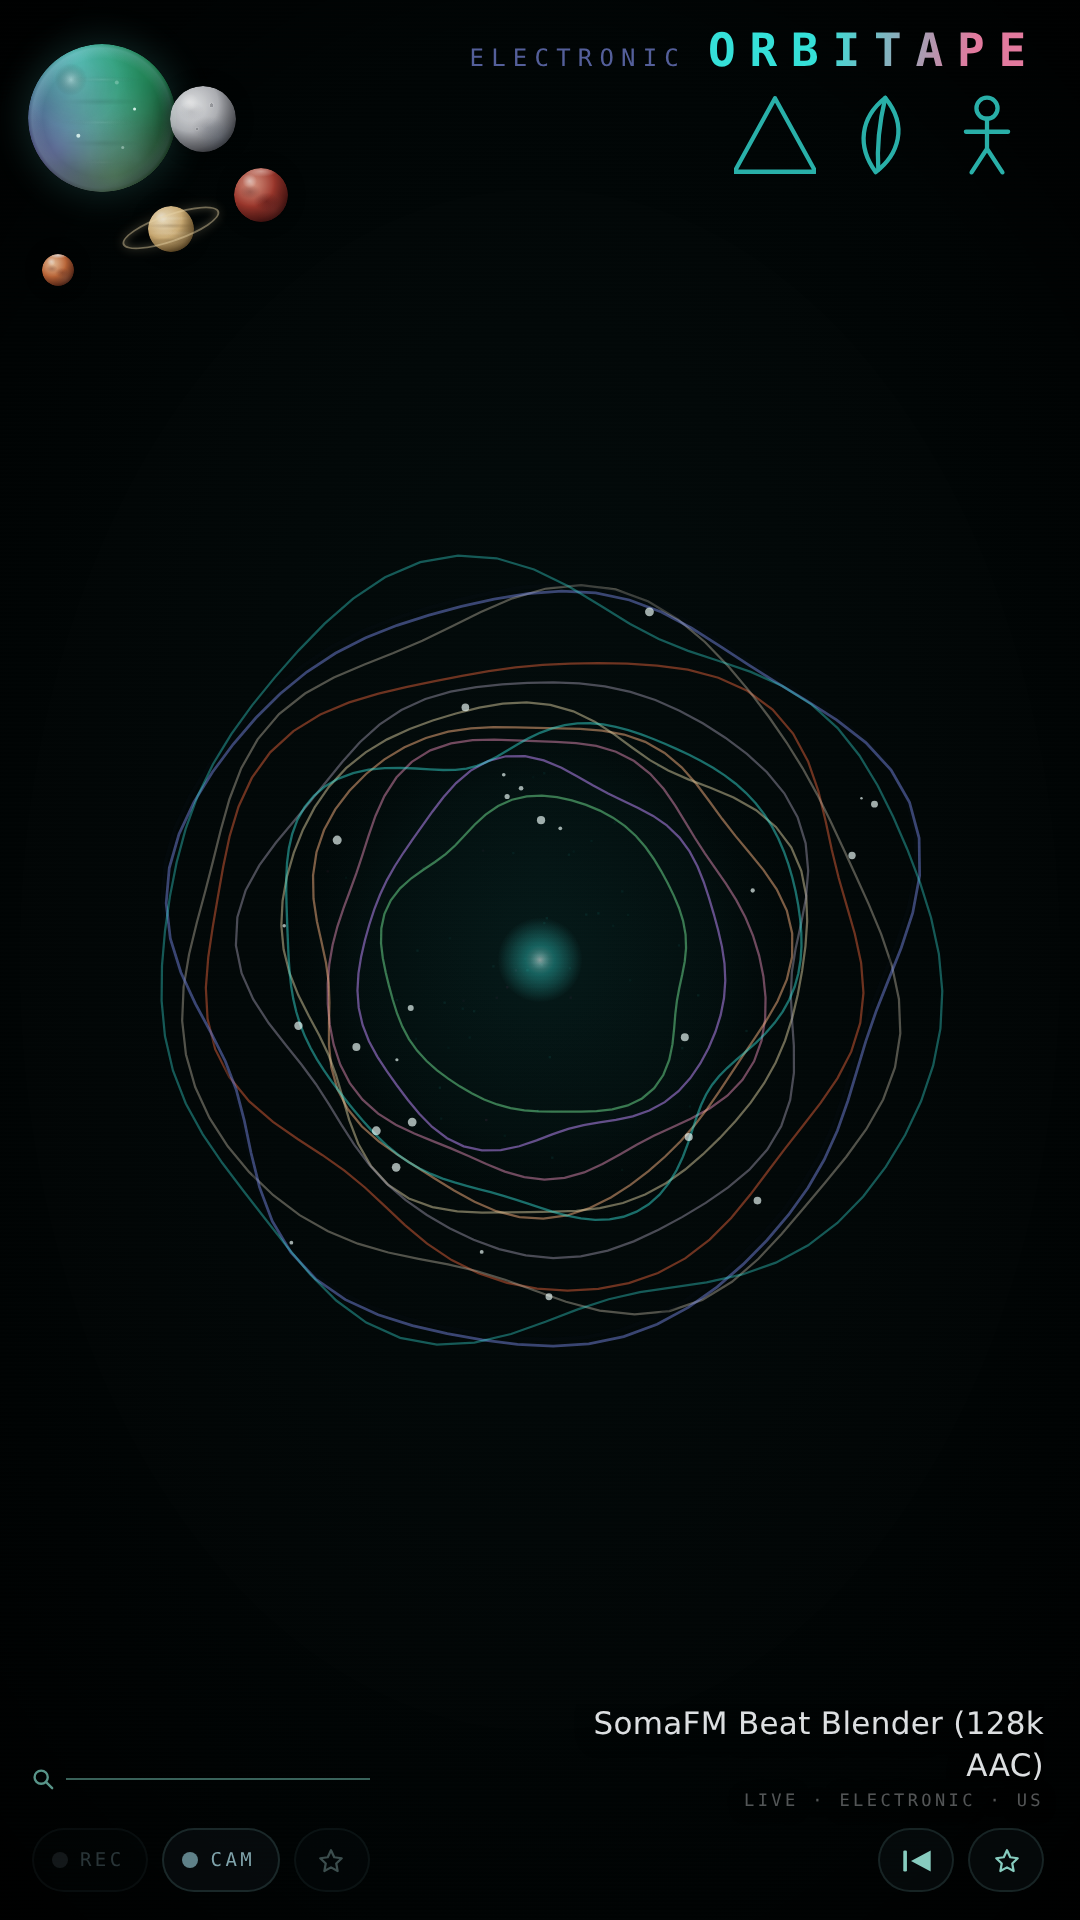
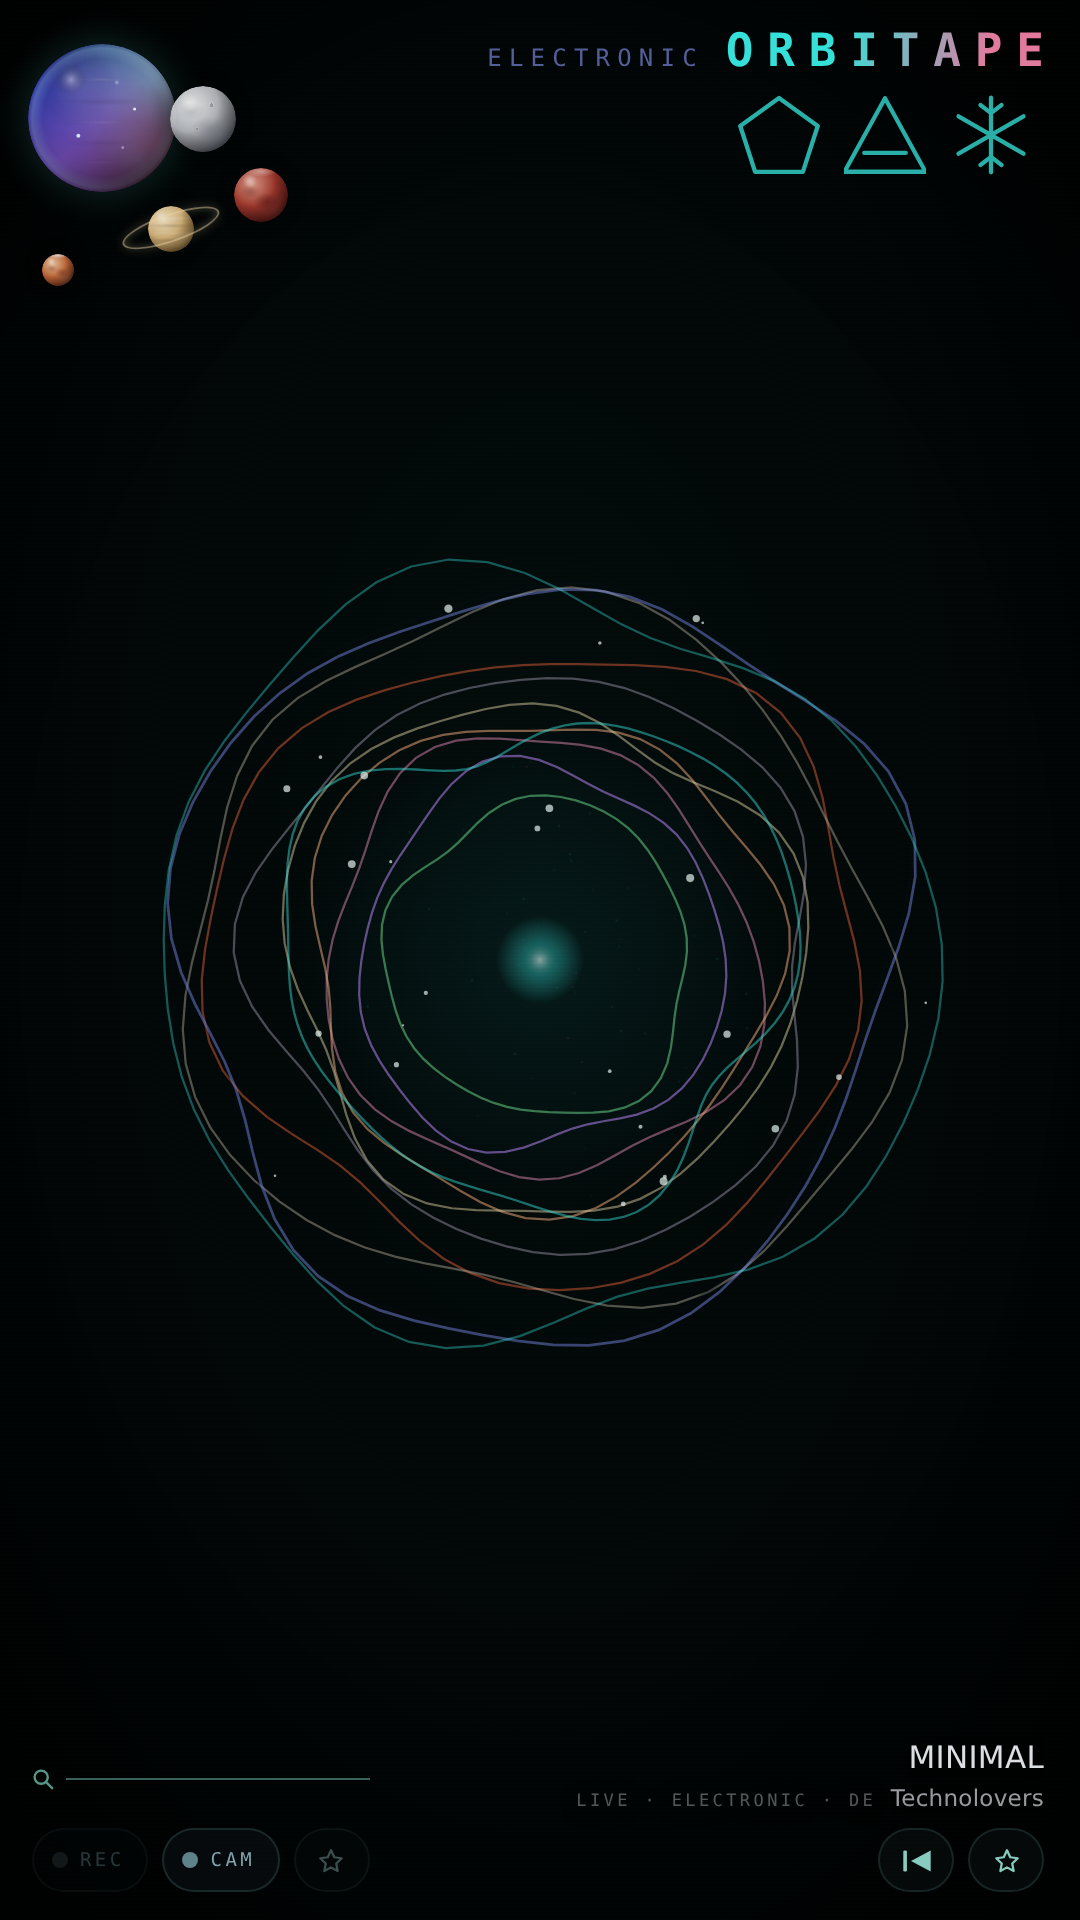
Ses gercekten kisiliyor; masaustunde dikey ses cubugu
1. ASIL HATA: SES KISILMIYORDU. Iki parmak jesti calisiyordu, yazdigi
   yer yanlisti. <audio> Web Audio grafigine baglaninca
   (createMediaElementSource) elemanin kendi volume'u cikisi
   etkilemiyor -- ses artik elemandan degil, grafigin sonundan
   cikiyor. "Mobilde iki parmak var ama kismiyor" bunun icindi.
   Kullanici seviyesi artik EN SONDAKI kendi dugumune yaziliyor
   (kulGain). cikisG'ye YAZILMADI: orayi otomatik seviye surekli
   yaziyor, oraya carpim koymak iki mekanizmayi karistirirdi.
   Gecis setTargetAtTime ile: ani sicrama cit sesi yapiyor.
   ses.volume yalnizca grafik henuz kurulmadiginda yedek.

   KAYIT kullanici kazancindan ONCE aliniyor (tavan): sesi kistin
   diye kaydin kisik cikmasi istenmez. Bu da teste bagli.

2. MASAUSTUNDE DIKEY SES CUBUGU. Iki parmak dokunmatige ait bir
   hareket; Mac/PC'de sesi kismanin hicbir yolu yoktu. Sagda ince
   bir cubuk: surukle, tekerlegi cevir ya da ok tuslarini kullan
   (odaklanabilir, aria-slider). YALNIZCA fare/trackpad olan
   cihazlarda gorunuyor -- dokunmatikte iki ayri yol iki ayri
   "dogru" demek olurdu.
   Olculdu: %30'a cekince kSes .30, kulGain.gain .30, depoya .3
   yazildi ve birakinca kaldi.

3. Magaza kareleri uygulamanin SU ANKI kodundan yeniden cekildi --
   oncekiler sag hiza duzeltmesinden onceydi.

Dosya tavani 560 -> 580 KB (566). Sebep yukarida; her yukseltmenin
gerekcesi testin icinde yaziyor.

Testler: 351 -> 353.

diff --git a/index.html b/index.html
@@ -947,6 +947,39 @@
   #sesCubuk.on{opacity:.9;}
   #sesCubuk i{display:block;height:100%;width:var(--dolu,100%);border-radius:2px;
     background:currentColor;box-shadow:0 0 8px currentColor;transition:width .06s linear;}
+  /* ── MASAUSTUNDE DIKEY SES ───────────────────────────────────────
+     Iki parmak jesti dokunmatik bir hareket; farede karsiligi yok ve
+     Mac/PC'de sesi kismanin hicbir yolu yoktu. Sagda ince bir dikey
+     cubuk: surukle, ya da uzerinde tekerlegi cevir.
+     YALNIZCA fare/trackpad olan cihazlarda. hover:hover + pointer:fine
+     ikisi birden: dokunmatik ekranda cikmiyor, orada zaten iki parmak
+     var ve iki ayri yol iki ayri "dogru" demek olurdu. */
+  #sesDikey{display:none;}
+  @media (hover:hover) and (pointer:fine){
+    #sesDikey{display:block;position:fixed;z-index:80;
+      right:calc(18px + var(--yan, 0px));
+      top:50%;transform:translateY(-50%);
+      width:26px;height:150px;cursor:ns-resize;
+      -webkit-tap-highlight-color:transparent;
+      opacity:.30;transition:opacity .22s ease;}
+    #sesDikey:hover,#sesDikey.tutuluyor{opacity:.92;}
+    /* Iz: ince bir cizgi. Dolu kisim ASAGIDAN yukari -- ses "yukselir". */
+    #sesDikey .iz{position:absolute;left:50%;top:0;bottom:0;width:2px;
+      margin-left:-1px;background:currentColor;opacity:.26;border-radius:2px;}
+    #sesDikey .iz i{position:absolute;left:0;right:0;bottom:0;
+      height:var(--dolu,100%);background:currentColor;border-radius:2px;
+      opacity:.9;}
+    /* Tutamak: dolu kismin tepesinde kucuk bir nokta. */
+    #sesDikey .nokta{position:absolute;left:50%;width:7px;height:7px;
+      margin-left:-3.5px;margin-bottom:-3.5px;border-radius:50%;
+      background:currentColor;bottom:var(--dolu,100%);opacity:.95;
+      transition:bottom .06s linear;}
+    body.t-lib   #sesDikey{color:#8ff0dd;}
+    body.t-liste #sesDikey{color:#d9d0dd;}
+    body.t-radio #sesDikey{color:#ffc79e;}
+    /* Arama acikken cekilsin: o an dikkat orada. */
+    body.arama-acik #sesDikey{opacity:.12;}
+  }
   body.t-lib   #sesCubuk{color:#8ff0dd;}
   body.t-liste #sesCubuk{color:#d9d0dd;}
   body.t-radio #sesCubuk{color:#ffc79e;}
@@ -1183,6 +1216,12 @@
     </div>
   </div>
   <div id="sesCubuk" aria-hidden="true"><i></i></div>
+  <!-- Masaustunde dikey ses. Dokunmatikte hic gorunmuyor (bkz. CSS):
+       orada iki parmak jesti var. -->
+  <div id="sesDikey" role="slider" aria-label="Volume" aria-orientation="vertical"
+       aria-valuemin="0" aria-valuemax="100" tabindex="0">
+    <div class="iz"><i></i></div><div class="nokta"></div>
+  </div>
   <audio id="ses" preload="none"></audio>
   <!-- ARIA: bu panel uygulamanın TEK metinsel çıktısı — parça adı,
        sanatçı, kaynak, lisans. Eskiden burada kalıcı aria-hidden="true"
@@ -3100,6 +3139,16 @@
   let yatay=0;                              // -1 = tam reverb (sol) .. 0 = temiz .. +1 = tam distortion (sağ)
   let dryG=null, wetG=null, delayNode=null, fbNode=null, delayG=null, convNode=null, fbTavan=null;
   let limiter=null, cikisG=null, tavan=null;   // dengeleyici + çıkış kazancı + tepe koruması
+  /* ── KULLANICI SESI: GRAFIGIN EN SONU ────────────────────────────
+     Iki parmak jesti ses.volume yaziyordu ve HICBIR SEY olmuyordu:
+     <audio> Web Audio grafigine baglaninca (createMediaElementSource)
+     elemanin kendi volume'u cikisi etkilemiyor -- ses artik elemandan
+     degil, grafigin sonundan cikiyor. Kullanicinin sikayeti buydu:
+     "iki parmak var ama kismiyor".
+     Bu dugum EN SONDA ve kendi basina: cikisG otomatik seviye
+     tarafindan surekli yazilyor, oraya carpim koymak iki mekanizmayi
+     birbirine karistirirdi. */
+  let kulGain=null;
   let driveIn=null, shaper=null, hishelf=null, driveOut=null;   // DRIVE (yukarı): satürasyon + tiz boost
   /* ── SATÜRASYON ARTIK ÇAPRAZ GEÇİŞLİ ─────────────────────────────
      ÖLÇÜLEN HATA: shaper (tanh 2.2x) grafiğe KALICI bağlıydı ve FX
@@ -3715,7 +3764,11 @@
         tavan=actx.createDynamicsCompressor();
         tavan.threshold.value=-3; tavan.knee.value=0; tavan.ratio.value=20;
         tavan.attack.value=0.002; tavan.release.value=0.12;
-        analiz.connect(tremG); cikisG.connect(tavan); tavan.connect(actx.destination);
+        kulGain=actx.createGain(); kulGain.gain.value=1;
+        analiz.connect(tremG); cikisG.connect(tavan);
+        /* KAYIT tavan'dan aliniyor, yani kullanici kazancindan ONCE:
+           sesi kistin diye kaydin kisik cikmasi istenmez. */
+        tavan.connect(kulGain); kulGain.connect(actx.destination);
         _limAtla = null; limiterYolu();     // tremG -> (limiter) -> cikisG bağlantısını kanala göre kur
         /* ── KAYIT HEDEFİ TAM BURADA KURULUYOR ────────────────────────
            Ölçüm: ilk kayıtta ses 3912 ms, sonra 6002 ms GEÇ giriyordu;
@@ -4076,8 +4129,15 @@
   var kSes = 1;                        // kullanıcı seviyesi 0..1
   try{ const v = parseFloat(localStorage.getItem('orbitape.ses')); if(isFinite(v)) kSes = Math.max(0, Math.min(1, v)); }catch(e){ _yut(e); }
   function sesSeviyeYaz(){
-    /* Radyoda 0.85 çarpanı kaldırıldı: kullanıcının ayarı neyse o. */
-    try{ ses.volume = Math.max(0, Math.min(1, kSes)); }catch(e){ _yut(e); }
+    const v = Math.max(0, Math.min(1, kSes));
+    /* Grafik varsa ASIL yer burasi. setTargetAtTime: ani sicrama
+       cit sesi yapiyor, 30 ms'lik yumusama duyulmuyor ama citi
+       kaldiriyor. */
+    try{ if(kulGain && actx) kulGain.gain.setTargetAtTime(v, actx.currentTime, 0.03); }
+    catch(e){ _yut(e); }
+    /* Grafik henuz kurulmadiysa (ilk sese kadar) eleman kendi
+       calisiyor; orada volume gecerli. */
+    try{ ses.volume = v; }catch(e){ _yut(e); }
   }
   const sesCub = document.getElementById('sesCubuk');
   let _sesGizle = 0;
@@ -4088,6 +4148,63 @@
     clearTimeout(_sesGizle);
     _sesGizle = setTimeout(()=>sesCub.classList.remove('on'), 900);
   }
+  /* Dikey cubugun dolulugu da ayni yerden guncelleniyor: iki parmakla
+     kissan da cubuk dogru gorunsun, tek gercek kSes. */
+  const sesDik = document.getElementById('sesDikey');
+  function sesDikeyYaz(){
+    if(!sesDik) return;
+    try{
+      const y = Math.round(kSes*100) + '%';
+      sesDik.style.setProperty('--dolu', y);
+      sesDik.setAttribute('aria-valuenow', String(Math.round(kSes*100)));
+    }catch(e){ _yut(e); }
+  }
+  /* ── MASAUSTU: DIKEY SES CUBUGU ──────────────────────────────────
+     Surukle, ya da uzerinde tekerlegi cevir. Deger cubugun kendi
+     yuksekliginden okunuyor: ASAGISI sessiz, YUKARISI tam. */
+  (function dikeySes(){
+    if(!sesDik) return;
+    let tutuluyor = false;
+    const oku = (e)=>{
+      const r = sesDik.getBoundingClientRect();
+      const o = 1 - ((e.clientY - r.top) / Math.max(1, r.height));
+      kSes = Math.max(0, Math.min(1, o));
+      sesSeviyeYaz(); sesDikeyYaz(); sesGoster();
+    };
+    const kaydet = ()=>{ try{ localStorage.setItem('orbitape.ses', String(kSes)); }catch(e){ _yut(e); } };
+    sesDik.addEventListener('pointerdown', e=>{
+      /* Ses baglami kullanici hareketiyle acilir: cubugu ilk kez
+         kullanan kisi de sesi duysun. */
+      try{ sesBaglamiAl(); if(actx) actx.resume(); }catch(_){ _yut(_); }
+      tutuluyor = true; sesDik.classList.add('tutuluyor');
+      try{ sesDik.setPointerCapture(e.pointerId); }catch(_){ _yut(_); }
+      e.stopPropagation(); e.preventDefault(); oku(e);
+    });
+    sesDik.addEventListener('pointermove', e=>{ if(tutuluyor){ e.preventDefault(); oku(e); } });
+    const birak = ()=>{ if(!tutuluyor) return; tutuluyor=false;
+      sesDik.classList.remove('tutuluyor'); kaydet(); };
+    sesDik.addEventListener('pointerup', birak);
+    sesDik.addEventListener('pointercancel', birak);
+    sesDik.addEventListener('lostpointercapture', birak);
+    /* Tekerlek: cubugun uzerinde. Sayfa zaten kaymiyor ama yine de
+       durduruyoruz, yoksa bazi trackpad'lerde gerileme oluyor. */
+    sesDik.addEventListener('wheel', e=>{
+      e.preventDefault();
+      kSes = Math.max(0, Math.min(1, kSes - Math.sign(e.deltaY) * 0.05));
+      sesSeviyeYaz(); sesDikeyYaz(); sesGoster(); kaydet();
+    }, {passive:false});
+    /* Klavye: cubuk odaklanabilir, ok tuslari calissin. */
+    sesDik.addEventListener('keydown', e=>{
+      const k = e.key;
+      if(k!=='ArrowUp' && k!=='ArrowDown' && k!=='Home' && k!=='End') return;
+      e.preventDefault();
+      if(k==='Home') kSes = 0; else if(k==='End') kSes = 1;
+      else kSes = Math.max(0, Math.min(1, kSes + (k==='ArrowUp' ? 0.05 : -0.05)));
+      sesSeviyeYaz(); sesDikeyYaz(); sesGoster(); kaydet();
+    });
+    sesDikeyYaz();
+  })();
+
   (function ikiParmakSes(){
     let etkin=false, basY=0, basSes=1;
     const ortY = t => (t[0].clientY + t[1].clientY) / 2;
@@ -4105,7 +4222,7 @@
       const dy = ortY(e.touches) - basY;
       const menzil = Math.max(240, window.innerHeight * 0.70);
       kSes = Math.max(0, Math.min(1, basSes - dy / menzil));
-      sesSeviyeYaz(); sesGoster();
+      sesSeviyeYaz(); sesGoster(); try{ sesDikeyYaz(); }catch(e){ _yut(e); }
     }, {passive:false});
     const bitir = ()=>{
       if(!etkin) return; etkin=false;

diff --git a/test/saglik.js b/test/saglik.js
@@ -167,7 +167,36 @@ const K = (ad, gecti, olcum) => sonuc.push({ad, gecti:!!gecti, olcum:String(olcu
      Bu tavan bir uyari, bir yasak degil -- ama her yukseltmenin
      sebebi buraya yaziliyor ki bir gun "nasil 700 KB olmus" diye
      sorulmasin. Sunucu gzip'liyor: 543 KB kaynak ~90 KB tel uzerinde. */
-  K('Dosya boyutu < 560 KB',  dosyaBoy < 560*1024, Math.round(dosyaBoy/1024)+' KB');
+  /* TAVAN 560 -> 580 KB. Sebep: masaustu icin DIKEY SES CUBUGU.
+     Iki parmak jesti dokunmatige ait; Mac/PC'de sesi kismanin hicbir
+     yolu yoktu. Eklenen sey bir eleman, bir CSS blogu ve surukle/
+     tekerlek/klavye kodu (~6 KB, yarisi yorum).
+     Ayni turda ses zincirindeki GERCEK hata da duzeldi: iki parmak
+     ses.volume yaziyordu ve <audio> Web Audio'ya bagli oldugu icin
+     hicbir sey olmuyordu. */
+  K('Dosya boyutu < 580 KB',  dosyaBoy < 580*1024, Math.round(dosyaBoy/1024)+' KB');
+  /* ── SES GERCEKTEN KISILIYOR MU ─────────────────────────────────
+     Olculen sikayet: "mobilde iki parmak var ama kismiyor". Jest
+     calisiyordu; yazdigi yer yanlisti. <audio> Web Audio grafigine
+     baglaninca (createMediaElementSource) elemanin kendi volume'u
+     cikisi etkilemiyor -- ses artik elemandan degil, grafigin
+     sonundan cikiyor. Kullanici seviyesi artik EN SONDAKI kendi
+     dugumune yaziliyor.
+     Neden cikisG'ye degil: cikisG'yi otomatik seviye surekli
+     yaziyor; oraya carpim koymak iki mekanizmayi birbirine
+     karistirirdi. */
+  K('Ses zinciri kullanici kazanciyla bitiyor', (()=>{
+      const k = fs.readFileSync('index.html','utf8');
+      return /kulGain\s*=\s*actx\.createGain\(\)/.test(k)
+          && /tavan\.connect\(kulGain\)[\s\S]{0,80}kulGain\.connect\(actx\.destination\)/.test(k)
+          && /kulGain\.gain\.setTargetAtTime/.test(k);
+    })(), 'kulGain en sonda; ses.volume yalnizca grafik yokken yedek');
+  /* KAYIT kullanici kazancindan ONCE aliniyor: sesi kistin diye
+     kaydin kisik cikmasi istenmez. */
+  K('Kayit kullanici kazancindan once',
+     /const kaynakDugum = tavan \|\| cikisG/.test(fs.readFileSync('index.html','utf8')),
+     'kayit tavandan aliniyor, kulGainden degil');
+
   /* ── ESKI SURUM ACILMASIN ────────────────────────────────────────
      Olculen vaka: yeni surum yayindayken uygulama ESKI surumu acti.
      Sebep index.html icin Cache-Control yazilmamis olmasiydi; kural
